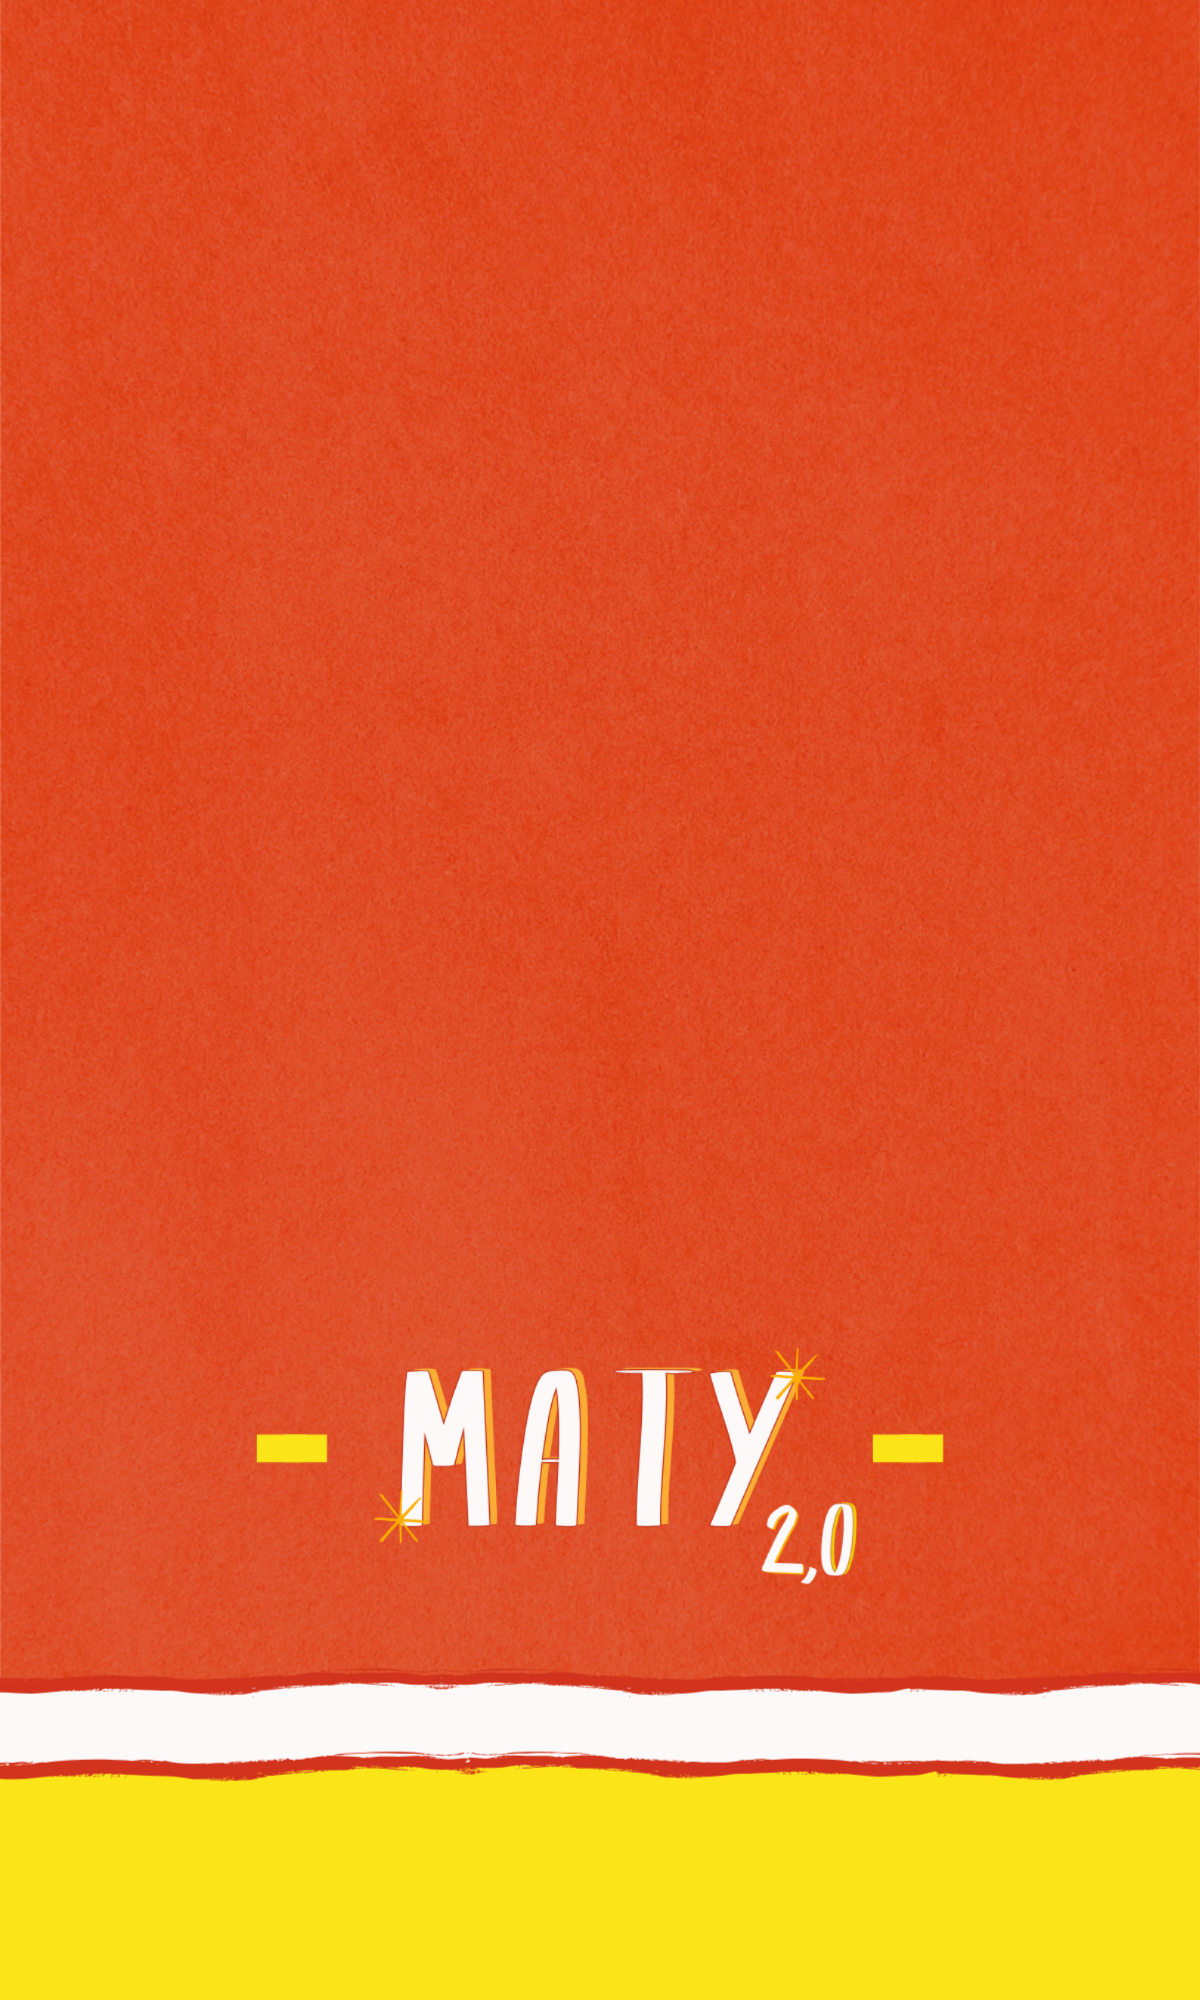
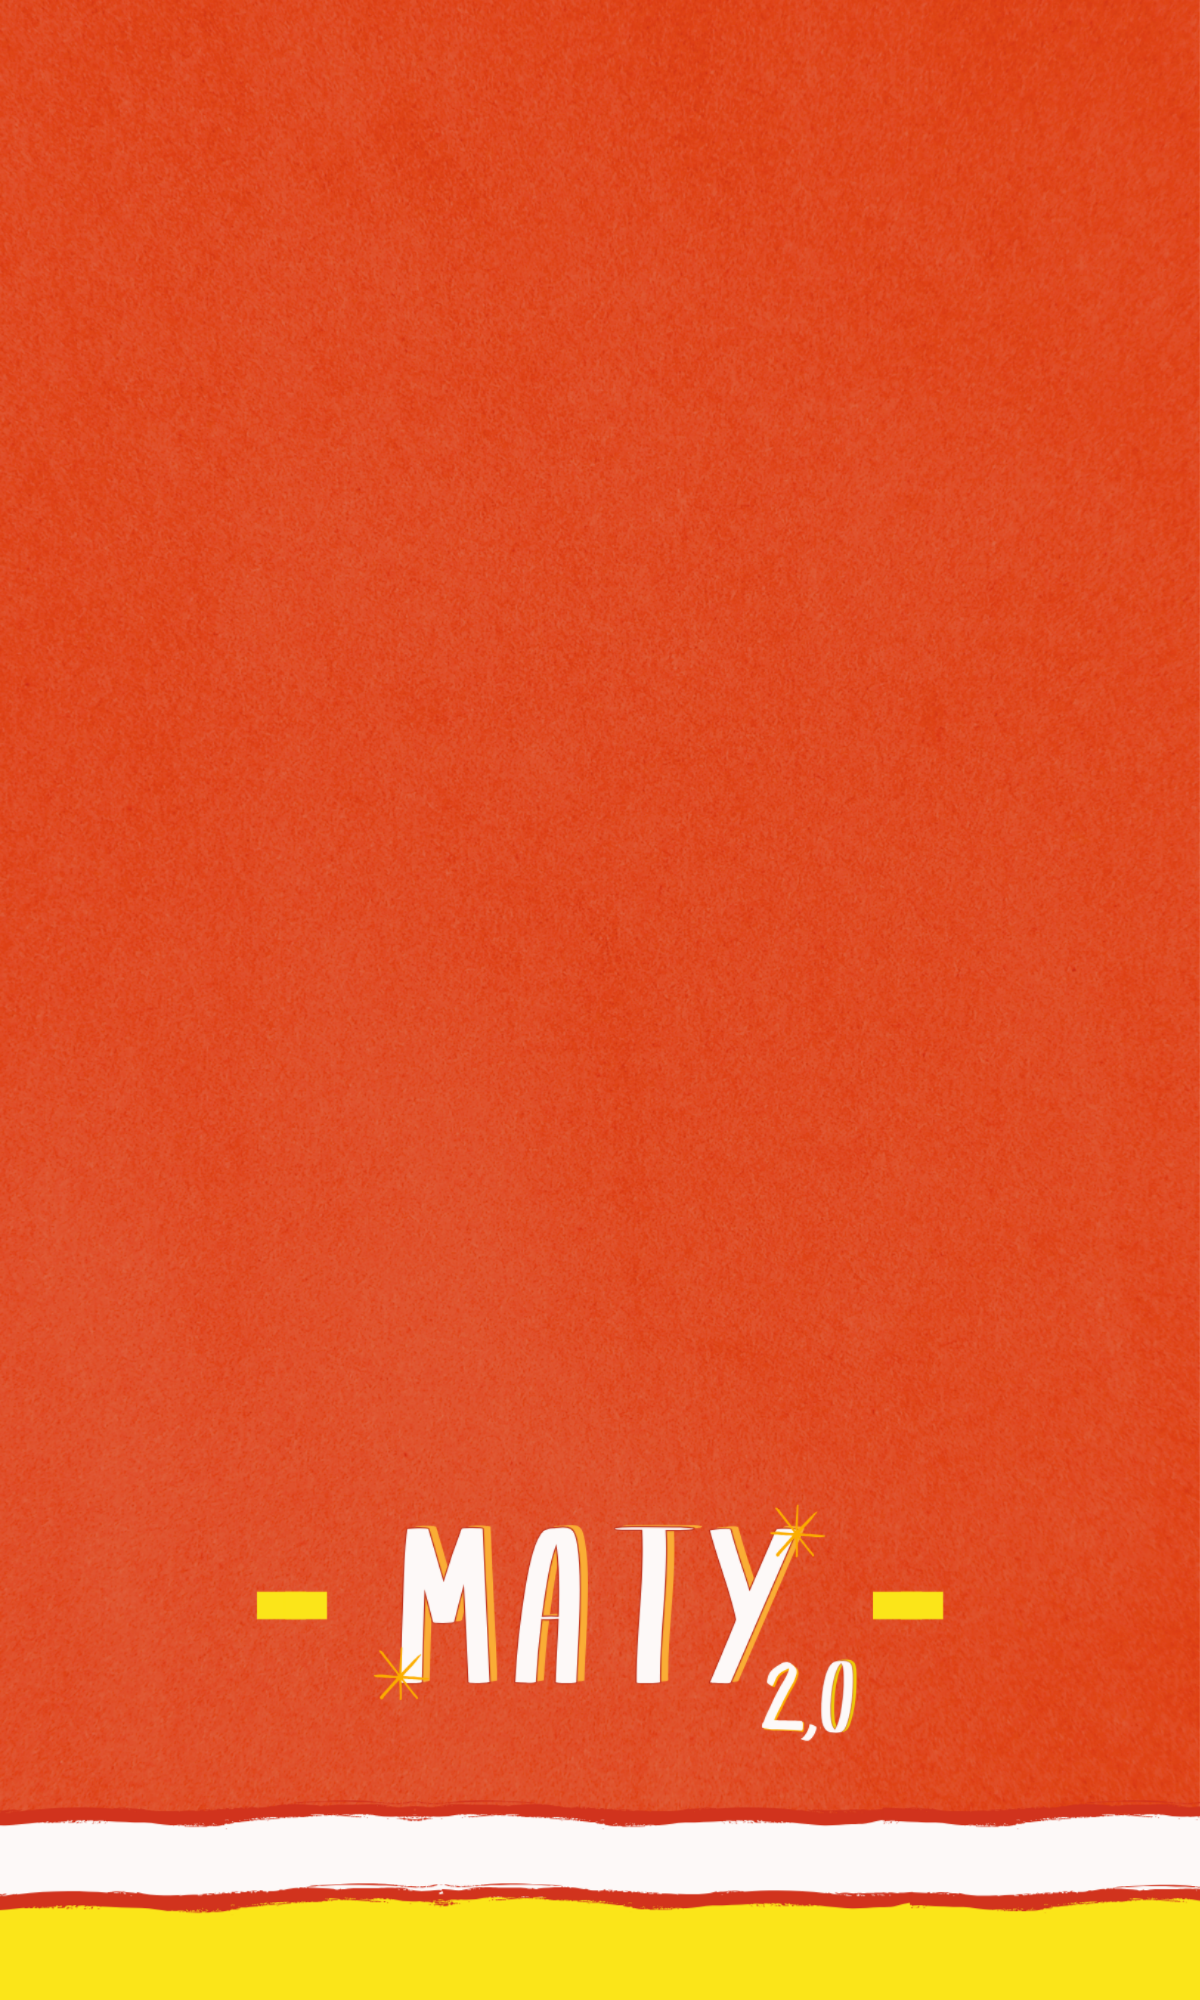
MATy5

Changed region(s): [[0.0, 0.682, 1.0, 0.961], [0.2158, 0.713, 0.2775, 0.744]]

diff --git a/App.vue b/App.vue
@@ -5,7 +5,7 @@
           <img src="./src/assets/logo.svg" alt="Logo MATY" class="logo-image">
         </div>
 
-        <label for="themeSwitcherOne" class="relative inline-flex select-none items-center justify-center w-80 mt-20 mx-0 rounded-full py-3">
+        <label for="themeSwitcherOne" class="relative inline-flex select-none items-center justify-center w-80 mt-14 mx-0 rounded-full py-3">
           <input type="checkbox" name="themeSwitcherOne" id="themeSwitcherOne" class="sr-only" >
           <span class="text-laranja flex px-3 items-center justify-center w-full rounded-lg py-2 bg-white text-sm font-secundaria">
             <p>Após pagar envie o comprovante no whatsapp!</p>
@@ -20,7 +20,7 @@
           <p class="text-center">Pix</p>
       </span>
         <h2 class="text-white font-secundaria text-lg">Selecione a quantidade de convites</h2>
-        <div id="formHowMuchPerson" class="flex mt-4 items-center">
+        <div id="formHowMuchPerson" class="flex mt-3 items-center">
           <button name="minus" class="bg-amareloespecificotocompreguica rounded-full flex items-center z-index-9" @click="decrementPersonPix">
             <span class="font-auxiliar-bold text-white pt-1 px-5 text-5xl flex items-center">-</span>
           </button>      
